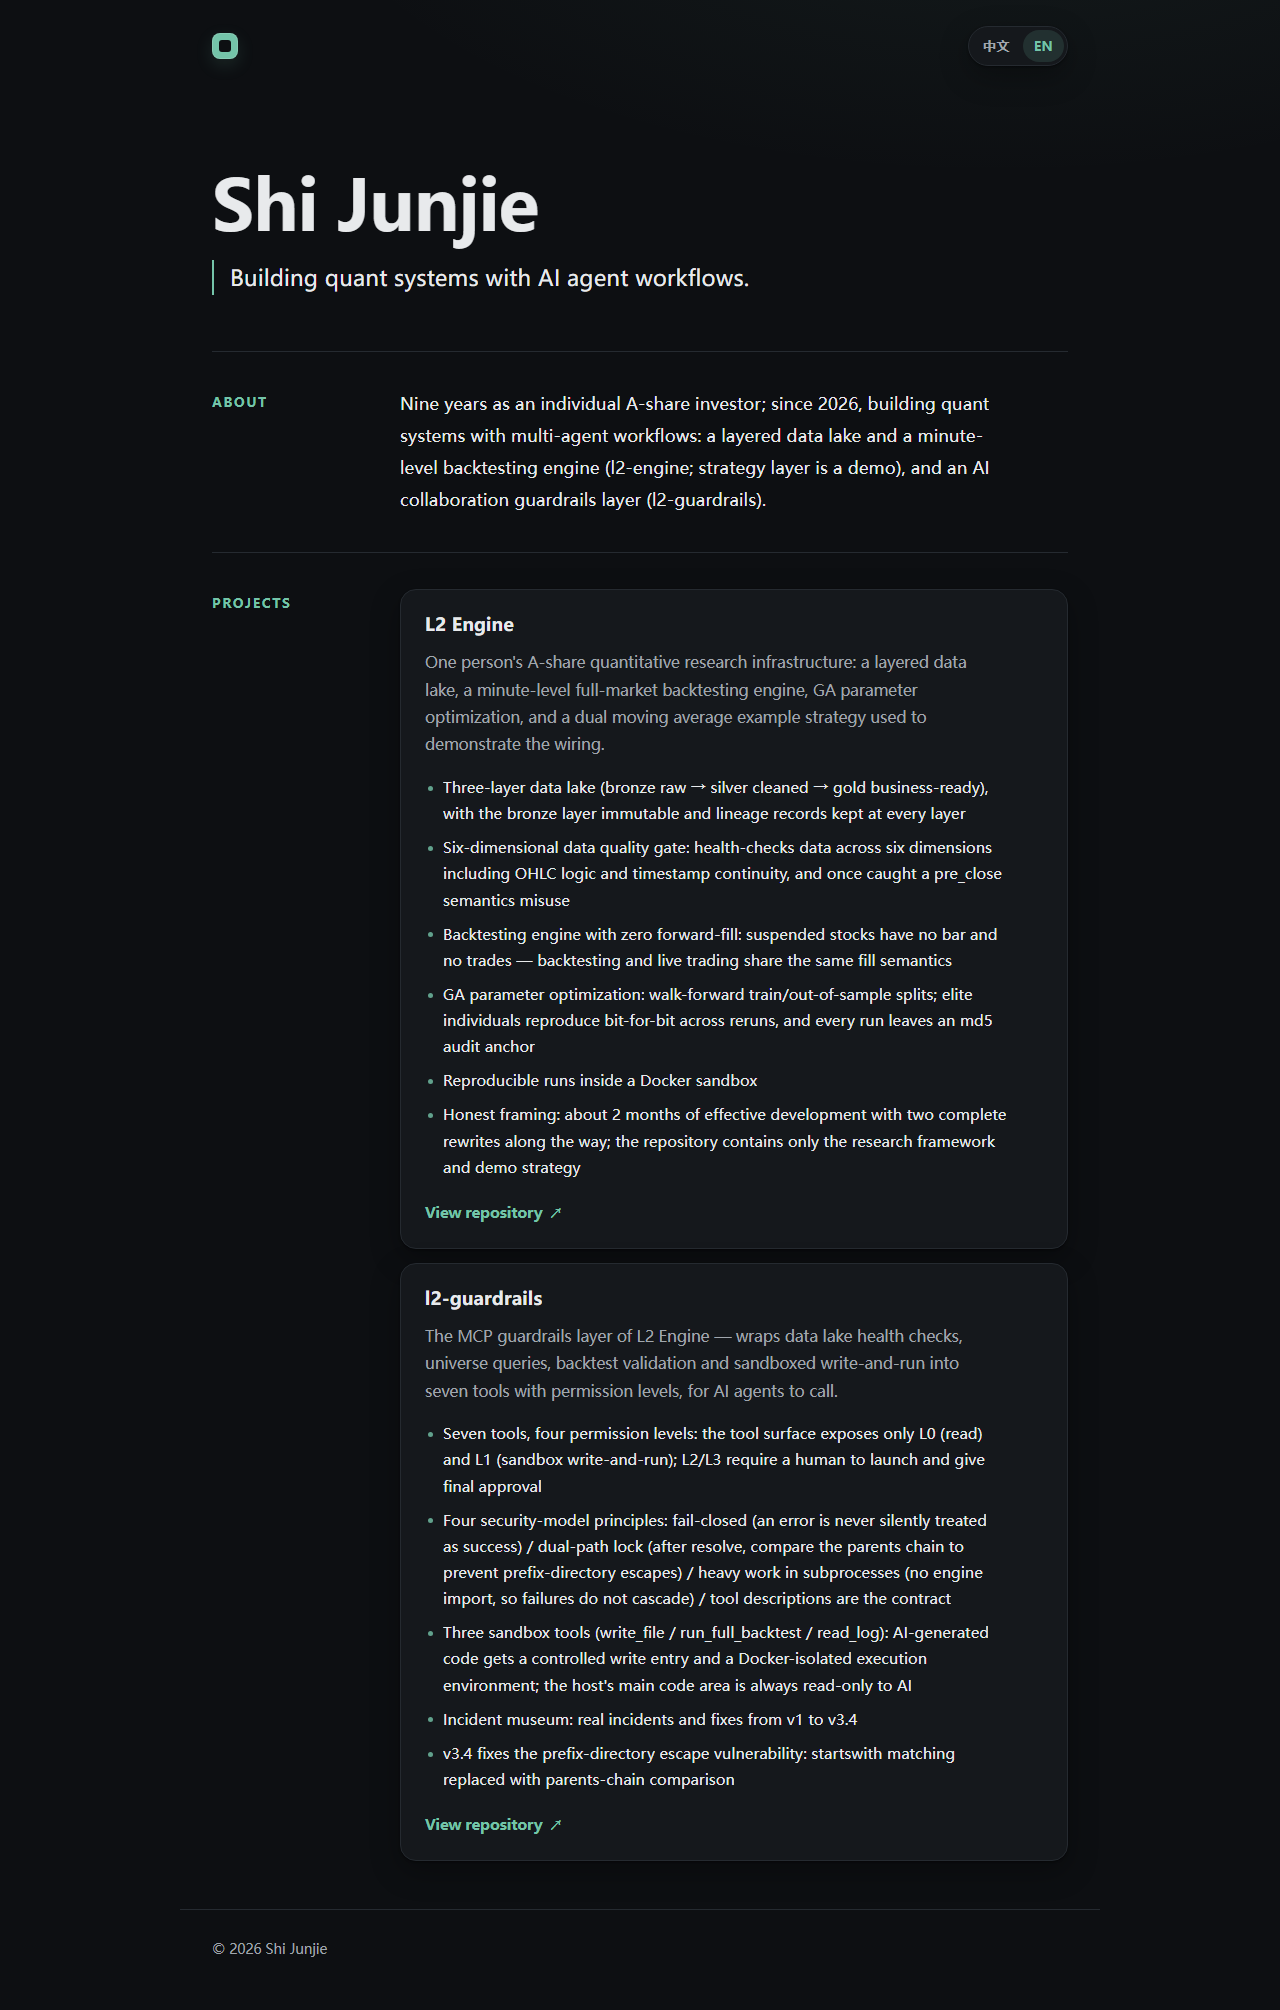
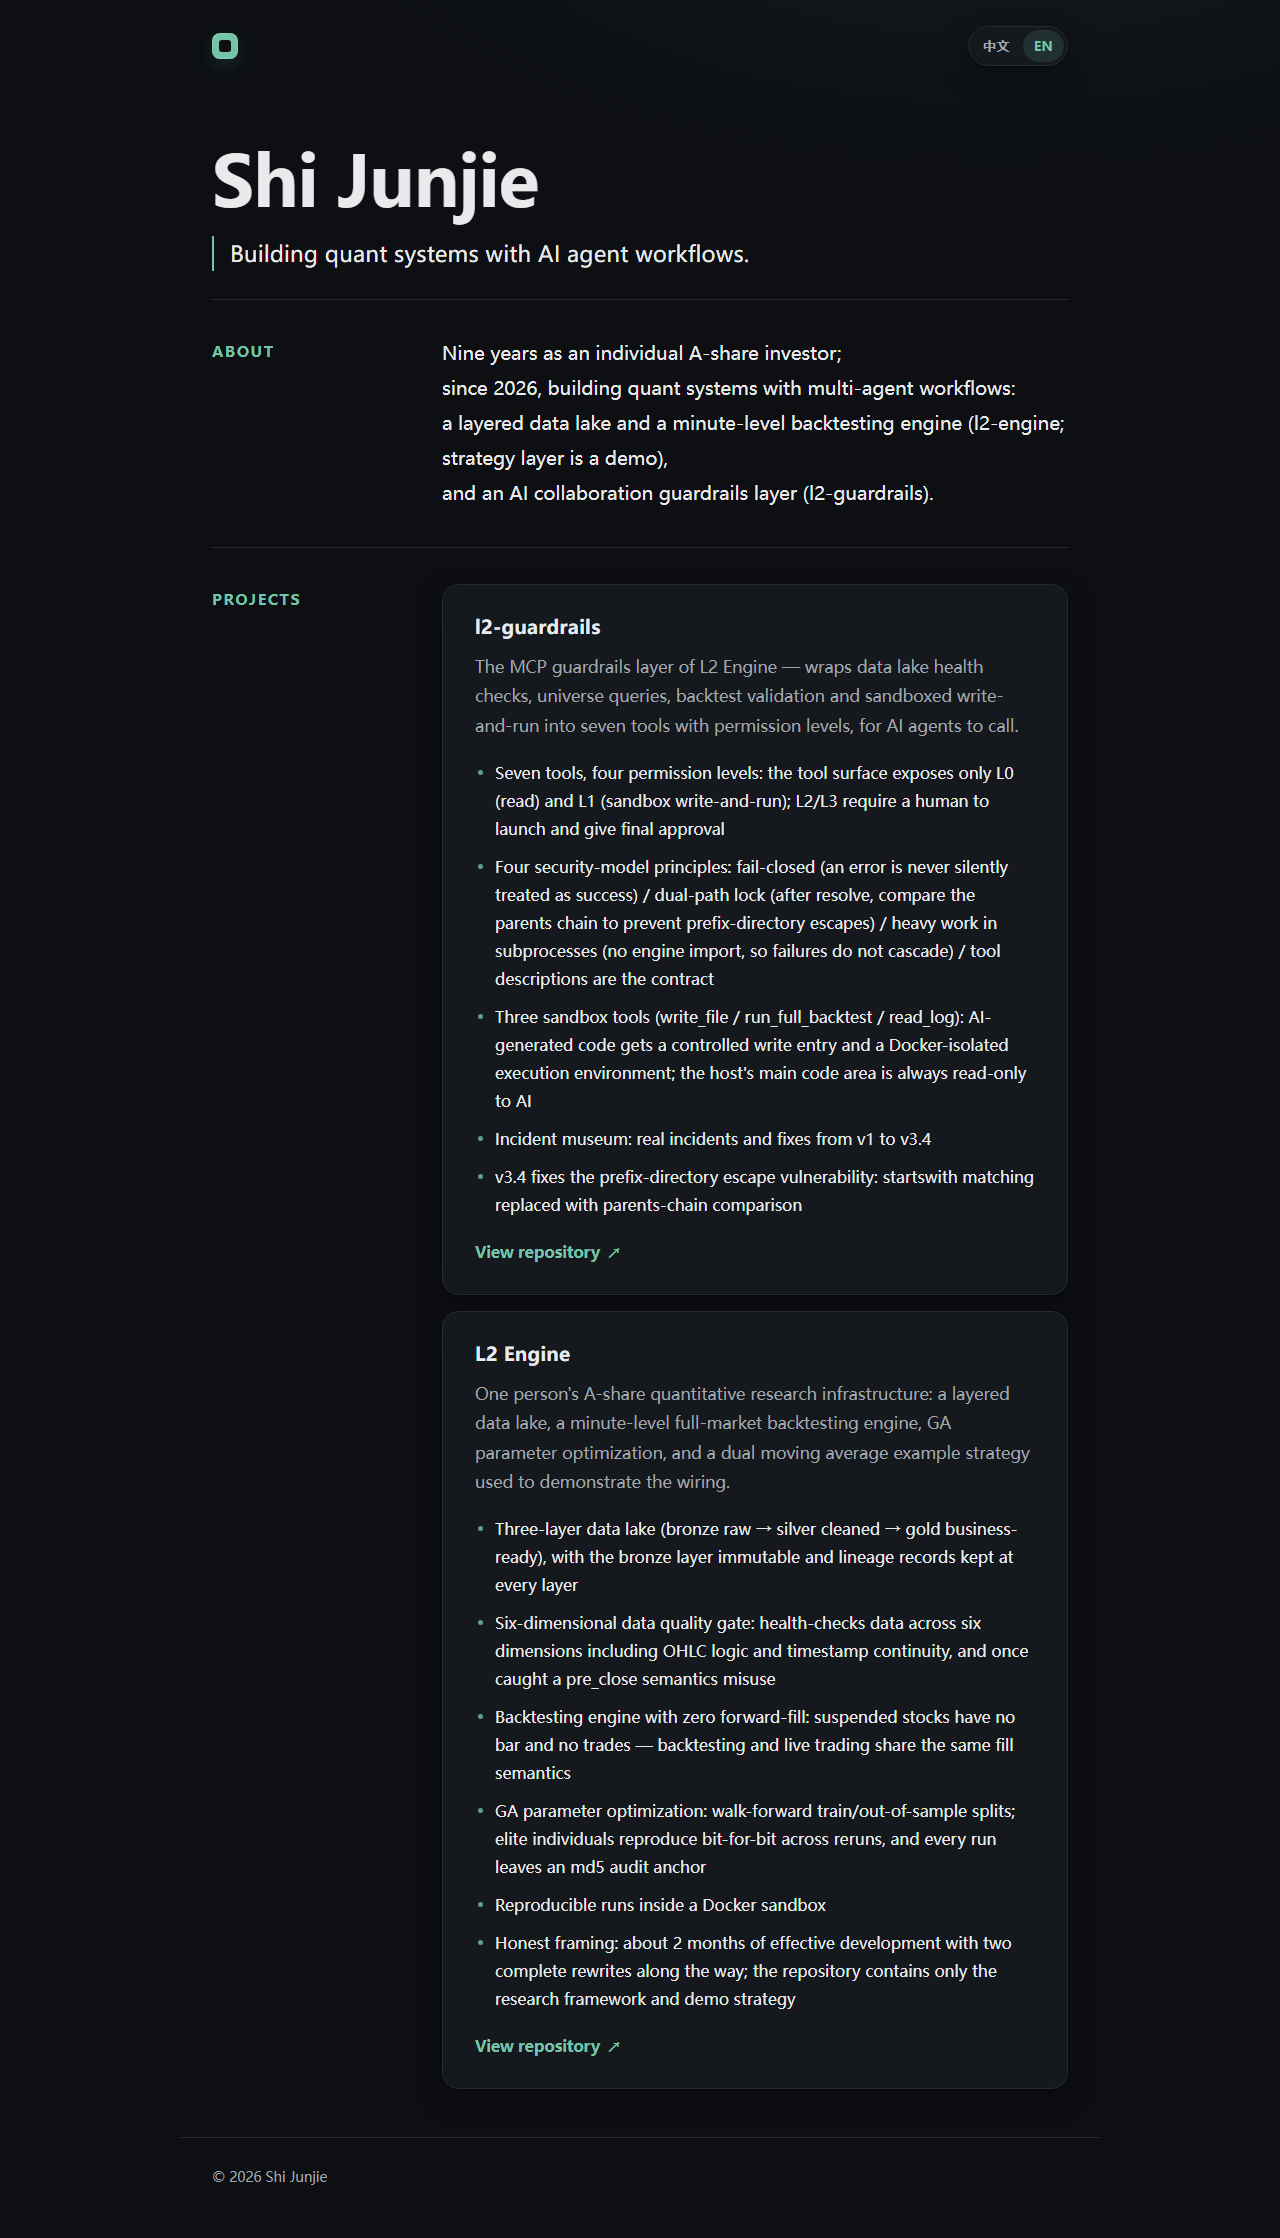
style: refine homepage typography and section rhythm
Tighten hero spacing, enlarge body type and section gaps, increase
project card padding, split the about copy into four semantic lines,
and put l2-guardrails before l2-engine per review.

diff --git a/index.html b/index.html
@@ -169,7 +169,7 @@
   }
 
   .hero {
-    padding: clamp(56px, 9vw, 92px) 0 clamp(36px, 5vw, 56px);
+    padding: clamp(44px, 6.5vw, 68px) 0 clamp(20px, 2.6vw, 28px);
   }
 
   h1 {
@@ -191,18 +191,18 @@
 
   .section {
     display: grid;
-    grid-template-columns: 140px minmax(0, 1fr);
-    gap: 20px 48px;
+    grid-template-columns: 170px minmax(0, 1fr);
+    gap: 24px 60px;
     padding: 36px 0;
     border-top: 1px solid var(--border);
   }
 
   .section h2 {
     margin: 4px 0 0;
-    font-size: 0.8rem;
+    font-size: 0.92rem;
     line-height: 1.6;
     font-weight: 700;
-    letter-spacing: 0.14em;
+    letter-spacing: 0.12em;
     text-transform: uppercase;
     color: var(--accent);
   }
@@ -212,19 +212,23 @@
   }
 
   .about {
-    max-width: 60ch;
+    max-width: 62ch;
     margin: 0;
-    font-size: clamp(1rem, 2.1vw, 1.08rem);
+    font-size: clamp(1.08rem, 2.3vw, 1.18rem);
     line-height: 1.85;
+  }
+
+  .about-line {
+    display: block;
   }
 
   .projects {
     display: grid;
-    gap: 14px;
+    gap: 16px;
   }
 
   .project {
-    padding: 22px 24px;
+    padding: 28px 32px;
     border: 1px solid var(--border);
     border-radius: var(--radius);
     background: var(--surface);
@@ -239,34 +243,34 @@
 
   .project h3 {
     margin: 0 0 10px;
-    font-size: 1.12rem;
+    font-size: 1.2rem;
     line-height: 1.5;
     font-weight: 700;
     letter-spacing: 0.01em;
   }
 
   .project-summary {
-    max-width: 60ch;
-    margin: 0 0 16px;
+    max-width: 62ch;
+    margin: 0 0 18px;
     color: var(--muted);
-    font-size: 0.98rem;
-    line-height: 1.75;
+    font-size: 1.04rem;
+    line-height: 1.78;
   }
 
   .project-points {
     display: grid;
-    gap: 8px;
+    gap: 10px;
     max-width: 62ch;
-    margin: 0 0 18px;
+    margin: 0 0 20px;
     padding: 0;
     list-style: none;
   }
 
   .project-points li {
     position: relative;
-    padding-left: 18px;
-    font-size: 0.95rem;
-    line-height: 1.72;
+    padding-left: 20px;
+    font-size: 1rem;
+    line-height: 1.75;
   }
 
   .project-points li::before {
@@ -287,7 +291,7 @@
     gap: 6px;
     border-bottom: 1px solid transparent;
     color: var(--accent);
-    font-size: 0.92rem;
+    font-size: 0.98rem;
     font-weight: 600;
     line-height: 1.6;
     text-decoration: none;
@@ -326,7 +330,8 @@
 
   @media (max-width: 680px) {
     .hero {
-      padding-top: 48px;
+      padding-top: 40px;
+      padding-bottom: 20px;
     }
 
     h1 {
@@ -335,8 +340,8 @@
 
     .section {
       grid-template-columns: 1fr;
-      gap: 8px;
-      padding: 28px 0;
+      gap: 10px;
+      padding: 30px 0;
     }
 
     .section h2 {
@@ -344,7 +349,7 @@
     }
 
     .project {
-      padding: 20px;
+      padding: 24px;
     }
   }
 
@@ -390,12 +395,29 @@
   <section class="section" aria-labelledby="about-title">
     <h2 id="about-title" data-zh="关于我" data-en="About">关于我</h2>
     <div class="section-body">
-      <p class="about" data-zh="九年 A 股个人投资者；2026 年起以多智能体工作流自研量化系统：分层数据湖与分钟级回测引擎（l2-engine，策略层为演示版）、AI 协作护栏层（l2-guardrails）" data-en="Nine years as an individual A-share investor; since 2026, building quant systems with multi-agent workflows: a layered data lake and a minute-level backtesting engine (l2-engine; strategy layer is a demo), and an AI collaboration guardrails layer (l2-guardrails).">九年 A 股个人投资者；2026 年起以多智能体工作流自研量化系统：分层数据湖与分钟级回测引擎（l2-engine，策略层为演示版）、AI 协作护栏层（l2-guardrails）</p>
+      <p class="about">
+        <span class="about-line" data-zh="九年 A 股个人投资者；" data-en="Nine years as an individual A-share investor;">九年 A 股个人投资者；</span>
+        <span class="about-line" data-zh="2026 年起以多智能体工作流自研量化系统：" data-en="since 2026, building quant systems with multi-agent workflows:">2026 年起以多智能体工作流自研量化系统：</span>
+        <span class="about-line" data-zh="分层数据湖与分钟级回测引擎（l2-engine，策略层为演示版）、" data-en="a layered data lake and a minute-level backtesting engine (l2-engine; strategy layer is a demo),">分层数据湖与分钟级回测引擎（l2-engine，策略层为演示版）、</span>
+        <span class="about-line" data-zh="AI 协作护栏层（l2-guardrails）" data-en="and an AI collaboration guardrails layer (l2-guardrails).">AI 协作护栏层（l2-guardrails）</span>
+      </p>
     </div>
   </section>
   <section class="section" aria-labelledby="projects-title">
     <h2 id="projects-title" data-zh="项目" data-en="Projects">项目</h2>
     <div class="section-body projects">
+      <article class="project">
+        <h3>l2-guardrails</h3>
+        <p class="project-summary" data-zh="L2 Engine 的 MCP 护栏层——把数据湖体检、宇宙查询、回测验证、沙箱写跑封装成七个带权限分级的工具，供 AI Agent 调用。" data-en="The MCP guardrails layer of L2 Engine — wraps data lake health checks, universe queries, backtest validation and sandboxed write-and-run into seven tools with permission levels, for AI agents to call.">L2 Engine 的 MCP 护栏层——把数据湖体检、宇宙查询、回测验证、沙箱写跑封装成七个带权限分级的工具，供 AI Agent 调用。</p>
+        <ul class="project-points" role="list">
+          <li data-zh="七工具四级权限：工具面只暴露 L0（读）与 L1（沙箱写跑），L2/L3 由人发车与终审" data-en="Seven tools, four permission levels: the tool surface exposes only L0 (read) and L1 (sandbox write-and-run); L2/L3 require a human to launch and give final approval">七工具四级权限：工具面只暴露 L0（读）与 L1（沙箱写跑），L2/L3 由人发车与终审</li>
+          <li data-zh="安全模型四原则：fail-closed（报错绝不静默成功）/ 双路径锁（resolve 解析后比对 parents 链，防前缀目录越界）/ 重活子进程化（不 import 引擎，互不连坐）/ 工具描述即契约" data-en="Four security-model principles: fail-closed (an error is never silently treated as success) / dual-path lock (after resolve, compare the parents chain to prevent prefix-directory escapes) / heavy work in subprocesses (no engine import, so failures do not cascade) / tool descriptions are the contract">安全模型四原则：fail-closed（报错绝不静默成功）/ 双路径锁（resolve 解析后比对 parents 链，防前缀目录越界）/ 重活子进程化（不 import 引擎，互不连坐）/ 工具描述即契约</li>
+          <li data-zh="沙箱三工具（write_file / run_full_backtest / read_log）：AI 生成的代码有受控写入口与 Docker 隔离执行环境，宿主主代码区对 AI 永远只读" data-en="Three sandbox tools (write_file / run_full_backtest / read_log): AI-generated code gets a controlled write entry and a Docker-isolated execution environment; the host's main code area is always read-only to AI">沙箱三工具（write_file / run_full_backtest / read_log）：AI 生成的代码有受控写入口与 Docker 隔离执行环境，宿主主代码区对 AI 永远只读</li>
+          <li data-zh="事故博物馆：v1 到 v3.4 的真实事故与修复记录" data-en="Incident museum: real incidents and fixes from v1 to v3.4">事故博物馆：v1 到 v3.4 的真实事故与修复记录</li>
+          <li data-zh="v3.4 修复前缀目录越界漏洞：startswith 匹配改为 parents 链比对" data-en="v3.4 fixes the prefix-directory escape vulnerability: startswith matching replaced with parents-chain comparison">v3.4 修复前缀目录越界漏洞：startswith 匹配改为 parents 链比对</li>
+        </ul>
+        <a href="https://github.com/shijunjie-quant/l2-guardrails" target="_blank" rel="noopener noreferrer"><span data-zh="查看仓库" data-en="View repository">查看仓库</span><span class="arrow" aria-hidden="true">↗</span></a>
+      </article>
       <article class="project">
         <h3>L2 Engine</h3>
         <p class="project-summary" data-zh="一个人的 A 股量化研究基础设施：分层数据湖、分钟级全市场回测引擎、GA 参数寻优，以及一个用于演示接线的双均线示例策略。" data-en="One person's A-share quantitative research infrastructure: a layered data lake, a minute-level full-market backtesting engine, GA parameter optimization, and a dual moving average example strategy used to demonstrate the wiring.">一个人的 A 股量化研究基础设施：分层数据湖、分钟级全市场回测引擎、GA 参数寻优，以及一个用于演示接线的双均线示例策略。</p>
@@ -408,18 +430,6 @@
           <li data-zh="诚实口径：约 2 个月有效开发量，演进途中两次彻底重写；仓库只含研究框架与演示策略" data-en="Honest framing: about 2 months of effective development with two complete rewrites along the way; the repository contains only the research framework and demo strategy">诚实口径：约 2 个月有效开发量，演进途中两次彻底重写；仓库只含研究框架与演示策略</li>
         </ul>
         <a href="https://github.com/shijunjie-quant/l2-engine" target="_blank" rel="noopener noreferrer"><span data-zh="查看仓库" data-en="View repository">查看仓库</span><span class="arrow" aria-hidden="true">↗</span></a>
-      </article>
-      <article class="project">
-        <h3>l2-guardrails</h3>
-        <p class="project-summary" data-zh="L2 Engine 的 MCP 护栏层——把数据湖体检、宇宙查询、回测验证、沙箱写跑封装成七个带权限分级的工具，供 AI Agent 调用。" data-en="The MCP guardrails layer of L2 Engine — wraps data lake health checks, universe queries, backtest validation and sandboxed write-and-run into seven tools with permission levels, for AI agents to call.">L2 Engine 的 MCP 护栏层——把数据湖体检、宇宙查询、回测验证、沙箱写跑封装成七个带权限分级的工具，供 AI Agent 调用。</p>
-        <ul class="project-points" role="list">
-          <li data-zh="七工具四级权限：工具面只暴露 L0（读）与 L1（沙箱写跑），L2/L3 由人发车与终审" data-en="Seven tools, four permission levels: the tool surface exposes only L0 (read) and L1 (sandbox write-and-run); L2/L3 require a human to launch and give final approval">七工具四级权限：工具面只暴露 L0（读）与 L1（沙箱写跑），L2/L3 由人发车与终审</li>
-          <li data-zh="安全模型四原则：fail-closed（报错绝不静默成功）/ 双路径锁（resolve 解析后比对 parents 链，防前缀目录越界）/ 重活子进程化（不 import 引擎，互不连坐）/ 工具描述即契约" data-en="Four security-model principles: fail-closed (an error is never silently treated as success) / dual-path lock (after resolve, compare the parents chain to prevent prefix-directory escapes) / heavy work in subprocesses (no engine import, so failures do not cascade) / tool descriptions are the contract">安全模型四原则：fail-closed（报错绝不静默成功）/ 双路径锁（resolve 解析后比对 parents 链，防前缀目录越界）/ 重活子进程化（不 import 引擎，互不连坐）/ 工具描述即契约</li>
-          <li data-zh="沙箱三工具（write_file / run_full_backtest / read_log）：AI 生成的代码有受控写入口与 Docker 隔离执行环境，宿主主代码区对 AI 永远只读" data-en="Three sandbox tools (write_file / run_full_backtest / read_log): AI-generated code gets a controlled write entry and a Docker-isolated execution environment; the host's main code area is always read-only to AI">沙箱三工具（write_file / run_full_backtest / read_log）：AI 生成的代码有受控写入口与 Docker 隔离执行环境，宿主主代码区对 AI 永远只读</li>
-          <li data-zh="事故博物馆：v1 到 v3.4 的真实事故与修复记录" data-en="Incident museum: real incidents and fixes from v1 to v3.4">事故博物馆：v1 到 v3.4 的真实事故与修复记录</li>
-          <li data-zh="v3.4 修复前缀目录越界漏洞：startswith 匹配改为 parents 链比对" data-en="v3.4 fixes the prefix-directory escape vulnerability: startswith matching replaced with parents-chain comparison">v3.4 修复前缀目录越界漏洞：startswith 匹配改为 parents 链比对</li>
-        </ul>
-        <a href="https://github.com/shijunjie-quant/l2-guardrails" target="_blank" rel="noopener noreferrer"><span data-zh="查看仓库" data-en="View repository">查看仓库</span><span class="arrow" aria-hidden="true">↗</span></a>
       </article>
     </div>
   </section>
